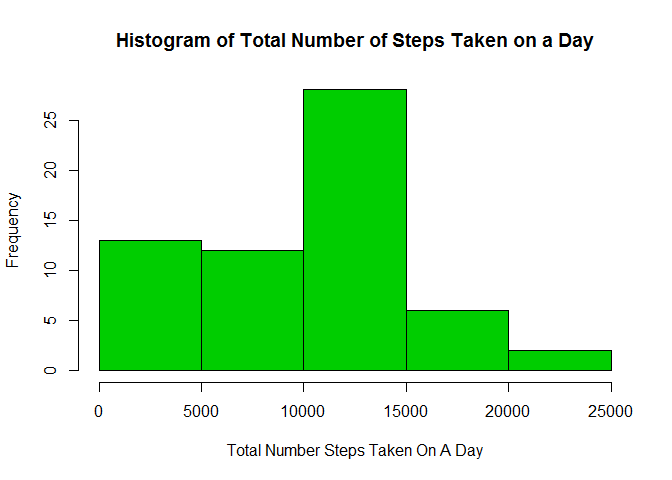
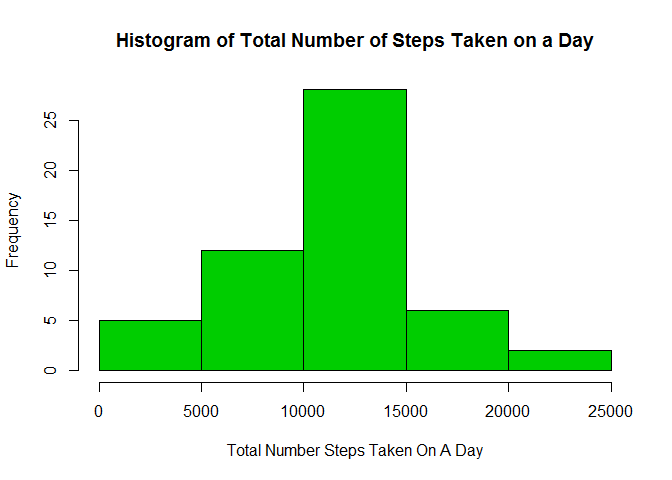
removed NA values in the first part

Changed region(s): [[0.125, 0.5, 0.3125, 0.6875]]

diff --git a/PA1_template.html b/PA1_template.html
@@ -138,26 +138,29 @@ data_df &lt;- data_df %&gt;%
 </div>
 <div id="what-is-mean-total-number-of-steps-taken-per-day" class="section level2">
 <h2>What is mean total number of steps taken per day?</h2>
-<p>For this part of the assignment, we ignore the missing values in the dataset. First we create a new data set where we group the data by day and then summarise to compute the sum.</p>
+<p>For this part of the assignment, we ignore the missing values in the dataset.</p>
+<pre class="r"><code>data_dfNoNA &lt;- na.omit(data_df)</code></pre>
+<p>First we create a new data set where we group the data by day and then summarise to compute the sum.</p>
 <pre class="r"><code>#daily total number of steps
-totalStepsDay &lt;- data_df %&gt;% group_by(date) %&gt;% summarize(Total = sum(steps, na.rm = TRUE))</code></pre>
+totalStepsDay &lt;- data_dfNoNA %&gt;% group_by(date) %&gt;% summarize(Total = sum(steps, na.rm = TRUE))</code></pre>
 <div id="make-a-histogram-of-the-total-number-of-steps-taken-each-day" class="section level3">
 <h3>Make a histogram of the total number of steps taken each day</h3>
 <pre class="r"><code>hist(totalStepsDay$Total, xlab = &quot;Total Number Steps Taken On A Day&quot;, 
      main = &quot;Histogram of Total Number of Steps Taken on a Day&quot;, col = 3)</code></pre>
[2 lines of base64/hex data omitted]
 </div>
 <div id="mean-and-median-total-number-of-steps-taken-per-day" class="section level3">
 <h3>Mean and median total number of steps taken per day</h3>
-<pre class="r"><code>totalMean &lt;- mean(totalStepsDay$Total)
+<pre class="r"><code>options(scipen=999)
+totalMean &lt;- mean(totalStepsDay$Total)
 totalMedian &lt;- median(totalStepsDay$Total)</code></pre>
-<p>Concerning the total number of steps taken per day, its mean is 9354.2295082 while its median is 10395.</p>
+<p>Concerning the total number of steps taken per day, its mean is 10766.1886792 while its median is 10765.</p>
 </div>
 </div>
 <div id="what-is-the-average-daily-activity-pattern" class="section level2">
 <h2>What is the average daily activity pattern?</h2>
 <p>Now we perform a similar transformation as the previous item, but we group by interval and then compute the average.</p>
-<pre class="r"><code>avgStepsInt &lt;- data_df %&gt;% group_by(interval) %&gt;% summarize(AverageNo = mean(steps, na.rm = TRUE))</code></pre>
+<pre class="r"><code>avgStepsInt &lt;- data_dfNoNA %&gt;% group_by(interval) %&gt;% summarize(AverageNo = mean(steps, na.rm = TRUE))</code></pre>
 <div id="time-series-plot-of-the-5-minute-interval-and-the-average-number-of-steps-taken-averaged-across-all-days" class="section level3">
 <h3>Time series plot of the 5-minute interval and the average number of steps taken, averaged across all days</h3>
 <pre class="r"><code>plot(avgStepsInt$interval, avgStepsInt$AverageNo, type = &quot;l&quot;, xlab = &quot;5-minute interval&quot;, ylab = &quot;average of number of daily steps&quot;, main = &quot;Time Series of the average number of daily steps&quot;)</code></pre>
@@ -196,10 +199,9 @@ maxValue &lt;- max[[1,2]]</code></pre>
 hist(newTotalStepsDay$Total, xlab = &quot;Total Number Steps Taken On A Day&quot;, 
      main = &quot;Histogram of Total Number of Steps Taken on a Day replacing NA&quot;)</code></pre>
[1 lines of base64/hex data omitted]
-<pre class="r"><code>options(scipen=999)
-newMean &lt;- mean(newTotalStepsDay$Total)
+<pre class="r"><code>newMean &lt;- mean(newTotalStepsDay$Total)
 newMedian &lt;- median(newTotalStepsDay$Total)</code></pre>
-<p>Following the same steps in the construction of the first histogram, we see that the class count shifted to the right. The frequency of the first bin decreased while the other ones increased. The new values of the mean and median are 10766.1886792 and 10766.1886792 respectively. Which also show an increase in the total number of steps.</p>
+<p>Following the same steps in the construction of the first histogram, we see that one of the bins increased. The new values of the mean and median are 10766.1886792 and 10766.1886792 respectively, which is the same mean value but a slightly different median value.</p>
 <p>Looking a little bit further in which days the NA values appear.</p>
 <pre class="r"><code>dataWithNA &lt;- data_df %&gt;% filter(., is.na(steps)) %&gt;% group_by(date) %&gt;% summarise(count = n())
 dataWithNA</code></pre>
@@ -216,7 +218,7 @@ dataWithNA</code></pre>
 ## 7 2012-11-14   288
 ## 8 2012-11-30   288</code></pre>
 <p>We see that when a day has an NA, the entire day is filled with NA, which means that there were some days that had total 0 because there wasn’t any observation on that day.</p>
-<p>Replacing NA with any number will increase the total number of steps on that day and therefore shift frequency from the first bin to another bin. Since the entire day is NA, all these days will have the same values because the impute strategy only depended on the interval.</p>
+<p>Therefore replacing NA with this mean value does not change the value of the mean and the median, but does change the histogram, since that if we replace NA with values we will have more days with values.</p>
 </div>
 </div>
 <div id="are-there-differences-in-activity-patterns-between-weekdays-and-weekends" class="section level2">

diff --git a/PA1_template.md b/PA1_template.md
@@ -40,12 +40,16 @@ data_df <- data_df %>%
 ## What is mean total number of steps taken per day?
 
 For this part of the assignment, we ignore the missing values in the dataset.
+
+```r
+data_dfNoNA <- na.omit(data_df)
+```
 First we create a new data set where we group the data by day and then summarise to compute the sum.
 
 
 ```r
 #daily total number of steps
-totalStepsDay <- data_df %>% group_by(date) %>% summarize(Total = sum(steps, na.rm = TRUE))
+totalStepsDay <- data_dfNoNA %>% group_by(date) %>% summarize(Total = sum(steps, na.rm = TRUE))
 ```
 
 ### Make a histogram of the total number of steps taken each day
@@ -60,18 +64,19 @@ hist(totalStepsDay$Total, xlab = "Total Number Steps Taken On A Day",
 ### Mean and median total number of steps taken per day
 
 ```r
+options(scipen=999)
 totalMean <- mean(totalStepsDay$Total)
 totalMedian <- median(totalStepsDay$Total)
 ```
 
-Concerning the total number of steps taken per day, its mean is 9354.2295082 while its median is 10395.
+Concerning the total number of steps taken per day, its mean is 10766.1886792 while its median is 10765.
 
 ## What is the average daily activity pattern?
 
 Now we perform a similar transformation as the previous item, but we group by interval and then compute the average.
 
 ```r
-avgStepsInt <- data_df %>% group_by(interval) %>% summarize(AverageNo = mean(steps, na.rm = TRUE))
+avgStepsInt <- data_dfNoNA %>% group_by(interval) %>% summarize(AverageNo = mean(steps, na.rm = TRUE))
 ```
 
 ### Time series plot of the 5-minute interval and the average number of steps taken, averaged across all days
@@ -129,11 +134,10 @@ hist(newTotalStepsDay$Total, xlab = "Total Number Steps Taken On A Day",
 ![](./figure/histWithNA-1.png)
 
 ```r
-options(scipen=999)
 newMean <- mean(newTotalStepsDay$Total)
 newMedian <- median(newTotalStepsDay$Total)
 ```
-Following the same steps in the construction of the first histogram, we see that the class count shifted to the right. The frequency of the first bin decreased while the other ones increased. The new values of the mean and median are 10766.1886792 and 10766.1886792 respectively. Which also show an increase in the total number of steps.
+Following the same steps in the construction of the first histogram, we see that one of the bins increased. The new values of the mean and median are 10766.1886792 and 10766.1886792 respectively, which is the same mean value but a slightly different median value.
 
 Looking a little bit further in which days the NA values appear.
 
@@ -158,7 +162,7 @@ dataWithNA
 ```
 We see that when a day has an NA, the entire day is filled with NA, which means that there were some days that had total 0 because there wasn't any observation on that day.
 
-Replacing NA with any number will increase the total number of steps on that day and therefore shift frequency from the first bin to another bin. Since the entire day is NA, all these days will have the same values because the impute strategy only depended on the interval.
+Therefore replacing NA with this mean value does not change the value of the mean and the median, but does change the histogram, since that if we replace NA with values we will have more days with values.
 
 
 ## Are there differences in activity patterns between weekdays and weekends?
